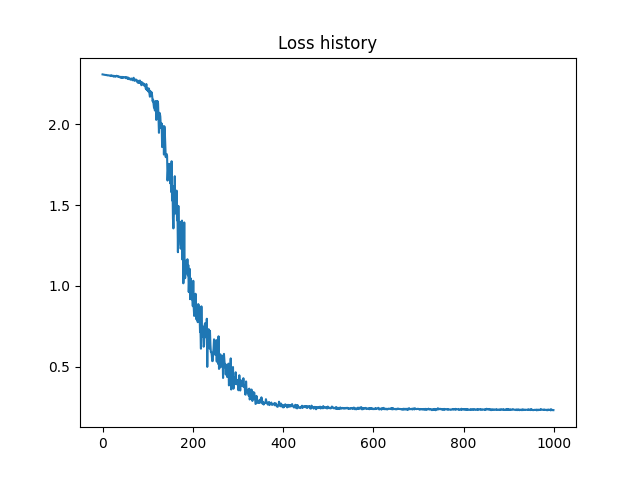
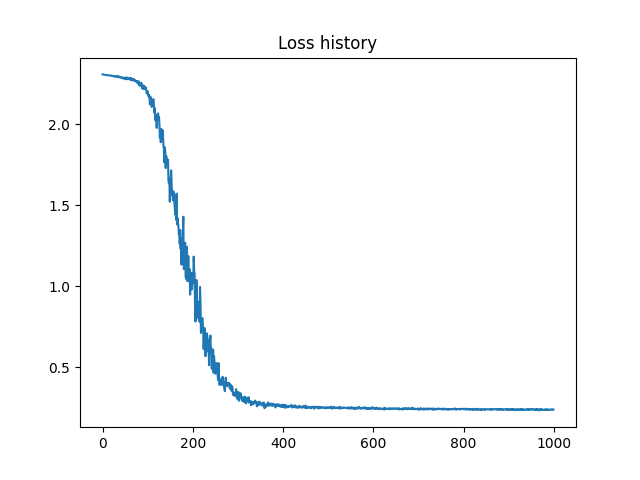
seminar 3 done

diff --git a/src/seminar3.py b/src/seminar3.py
@@ -290,7 +290,6 @@ def train_2layer():
 
     print(report)
 
-
     with open('seminar3/report.md', 'w') as f:
         f.write(report)
     visualize_loss(loss_history, 'seminar3')

diff --git a/output/seminar3/report.md b/output/seminar3/report.md
@@ -1,14 +1,14 @@
 # Training Softmax classifier  
-    datetime: 2023-10-14 15:02:11  
-    Well done in: 6 seconds  
+    datetime: 2023-10-14 15:16:37  
+    Well done in: 7 seconds  
     learning_rate = 0.01  
     reg = 0.1  
     num_iters = 1000  
     batch_size = 64  
     
-    Final loss: 0.23267791192842638   
-    Train accuracy: 0.15814   
-    Test accuracy: 0.1564  
+    Final loss: 0.23776375188775586   
+    Train accuracy: 0.162   
+    Test accuracy: 0.1609  
     
     <img src="weights.png">  
     <br>
